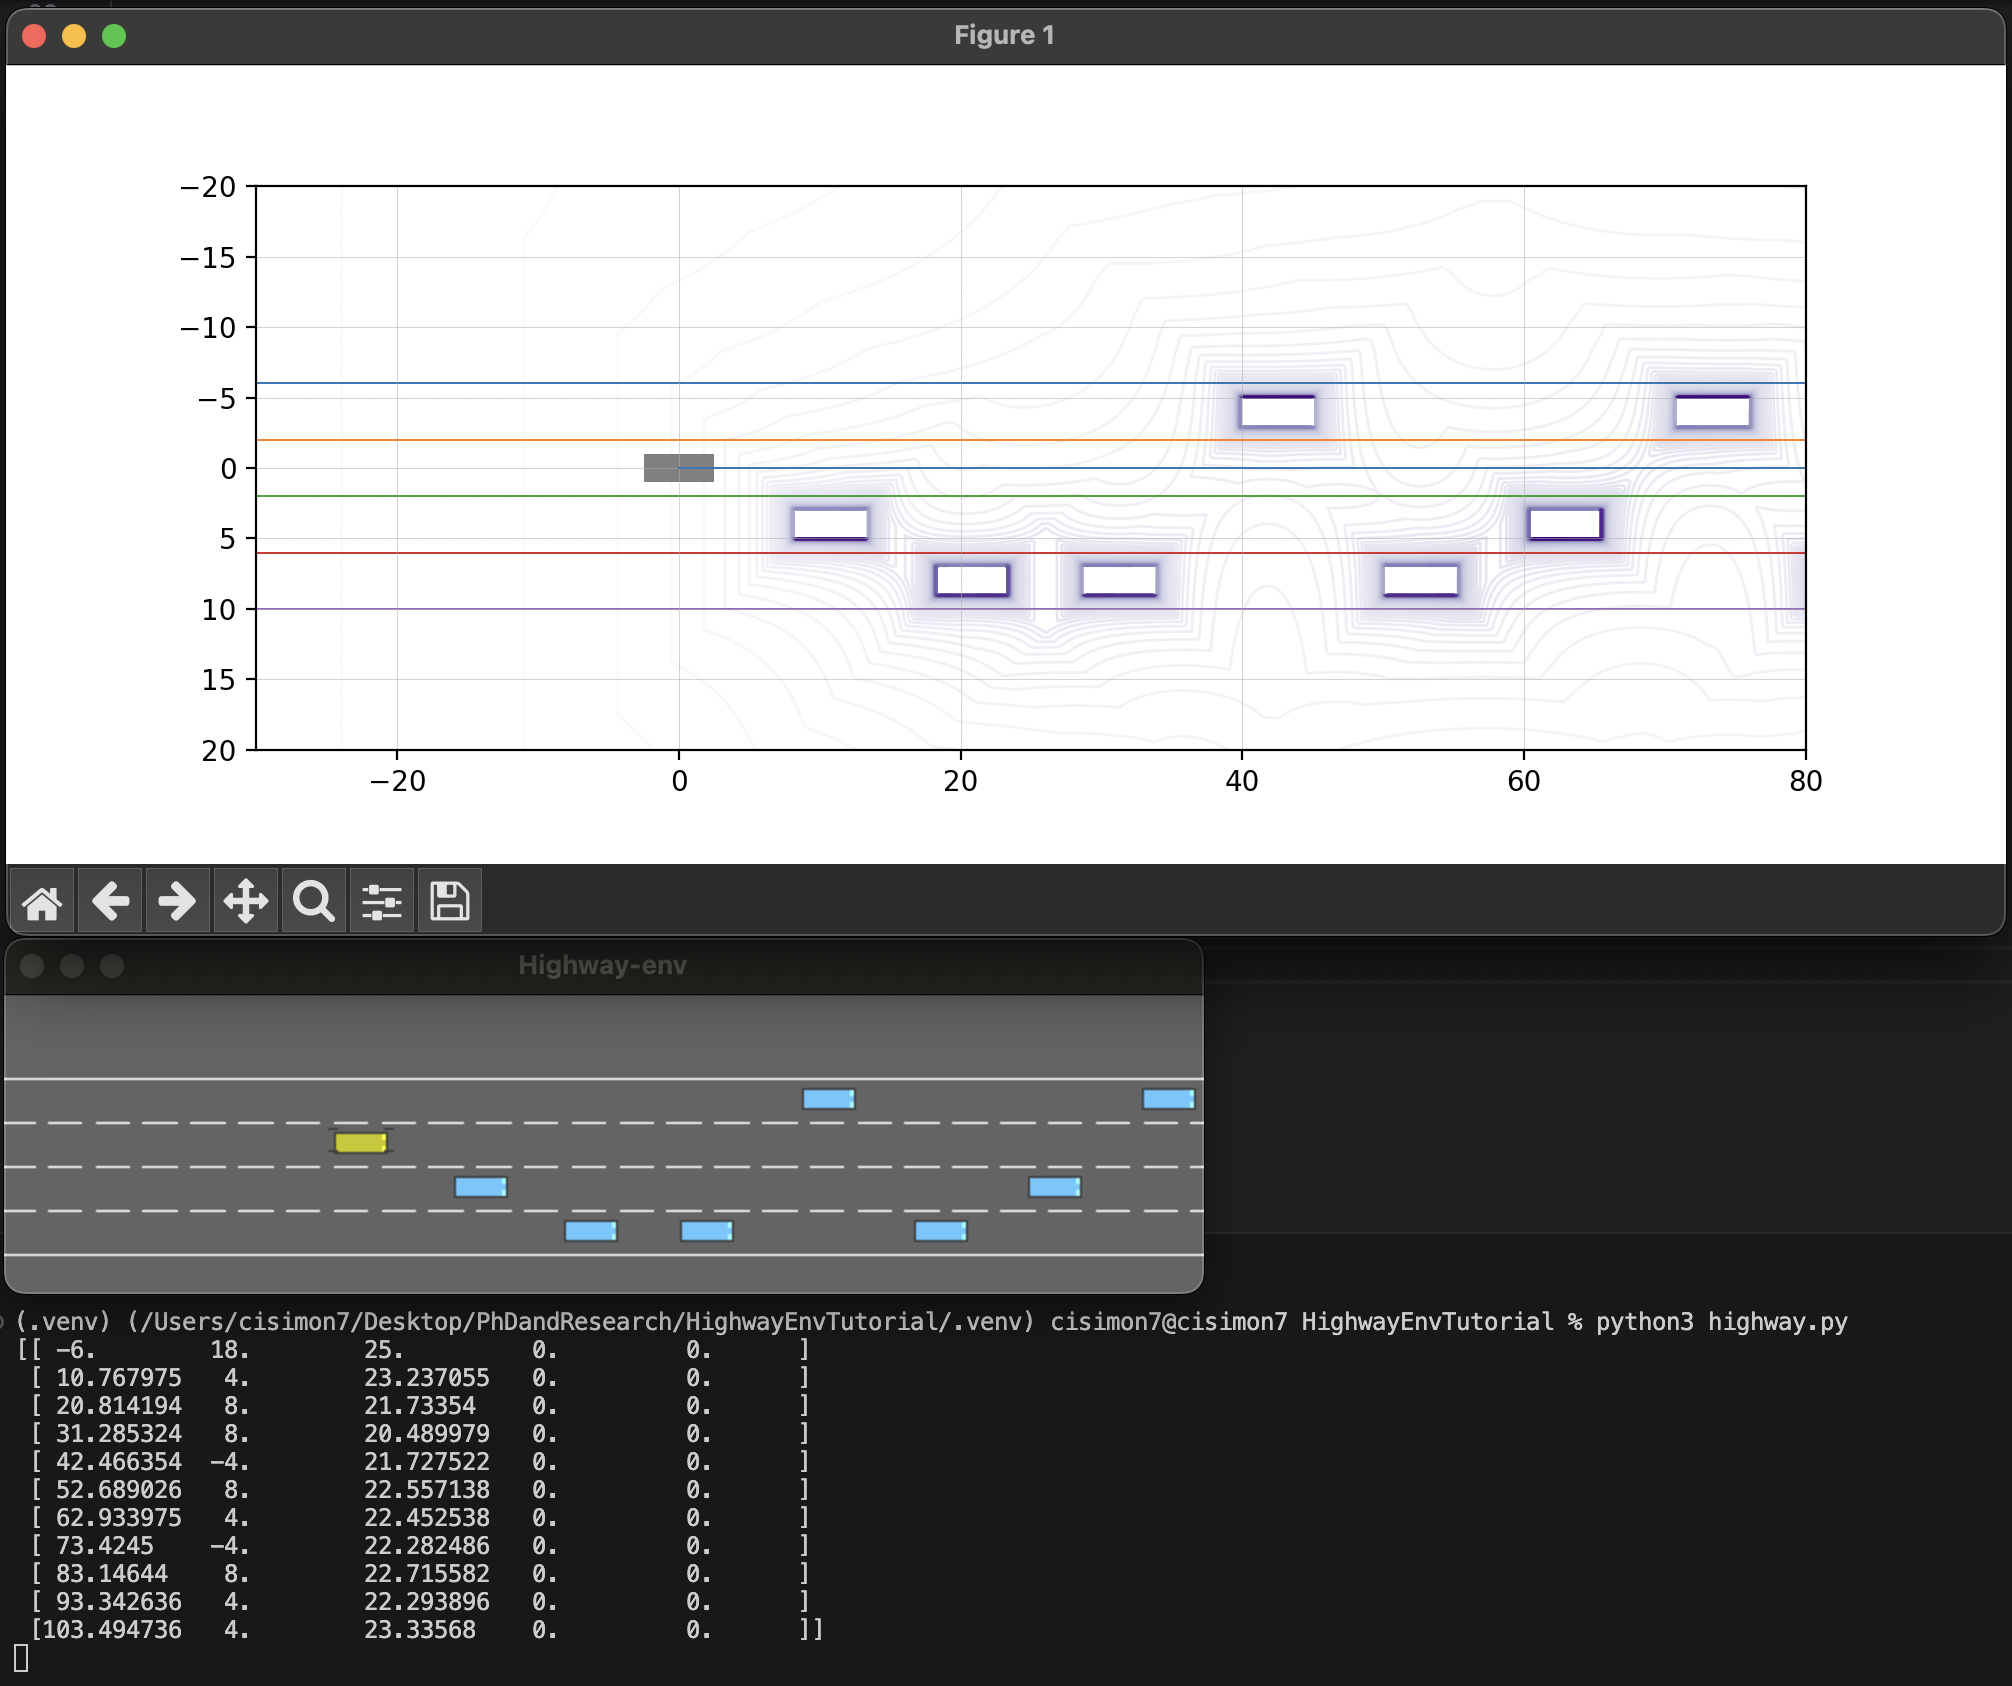
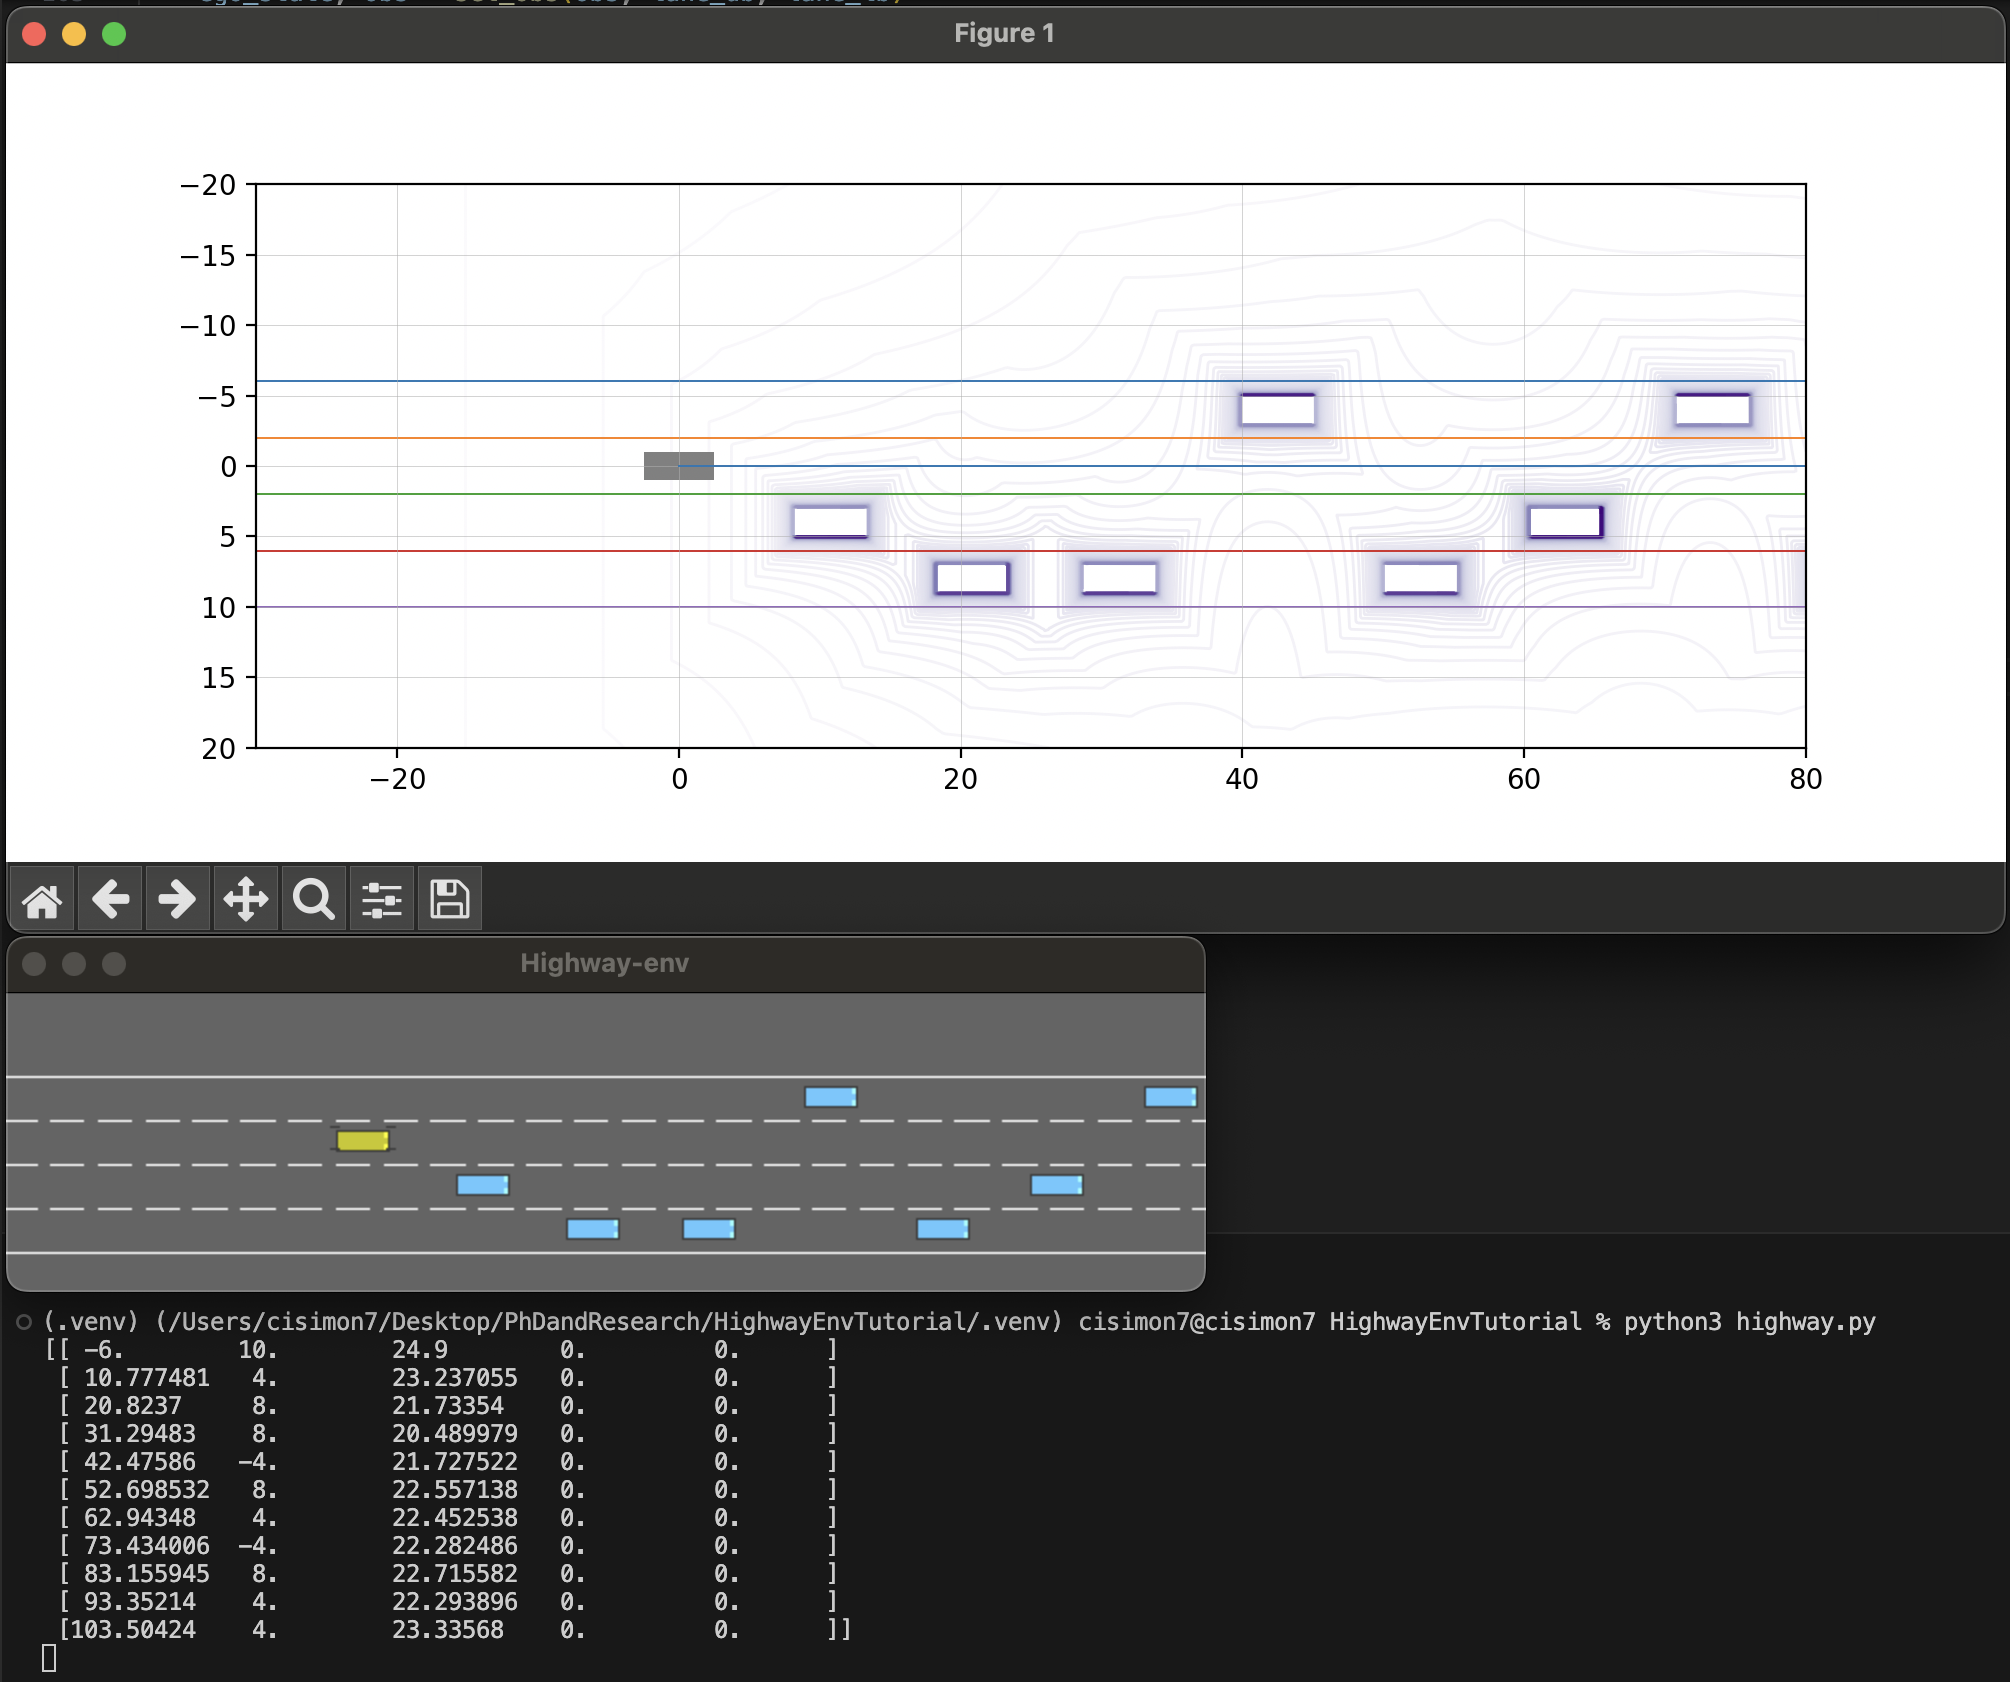
lane calc

diff --git a/highway.py b/highway.py
@@ -75,7 +75,7 @@ def set_obs(obs, global_lane_up, global_lane_lb):
     ego_state = np.copy(obs[0])
 
     lb_lane = global_lane_lb - obs[0][1]
-    ub_lane = global_lane_up + obs[0][1]
+    ub_lane = global_lane_up - obs[0][1]
 
     ego_pose = obs[0, :2]
     obs[:, :2] = obs[:, :2] - ego_pose 

diff --git a/env_config.py b/env_config.py
@@ -1,6 +1,6 @@
 env_config = dict(
     other_vehicles_type="highway_env.vehicle.behavior.IDMVehicle",
-    manual_control=False,
+    manual_control=True,
     lanes_count=4,
     vehicles_count=30,
     vehicles_density=2.0,
